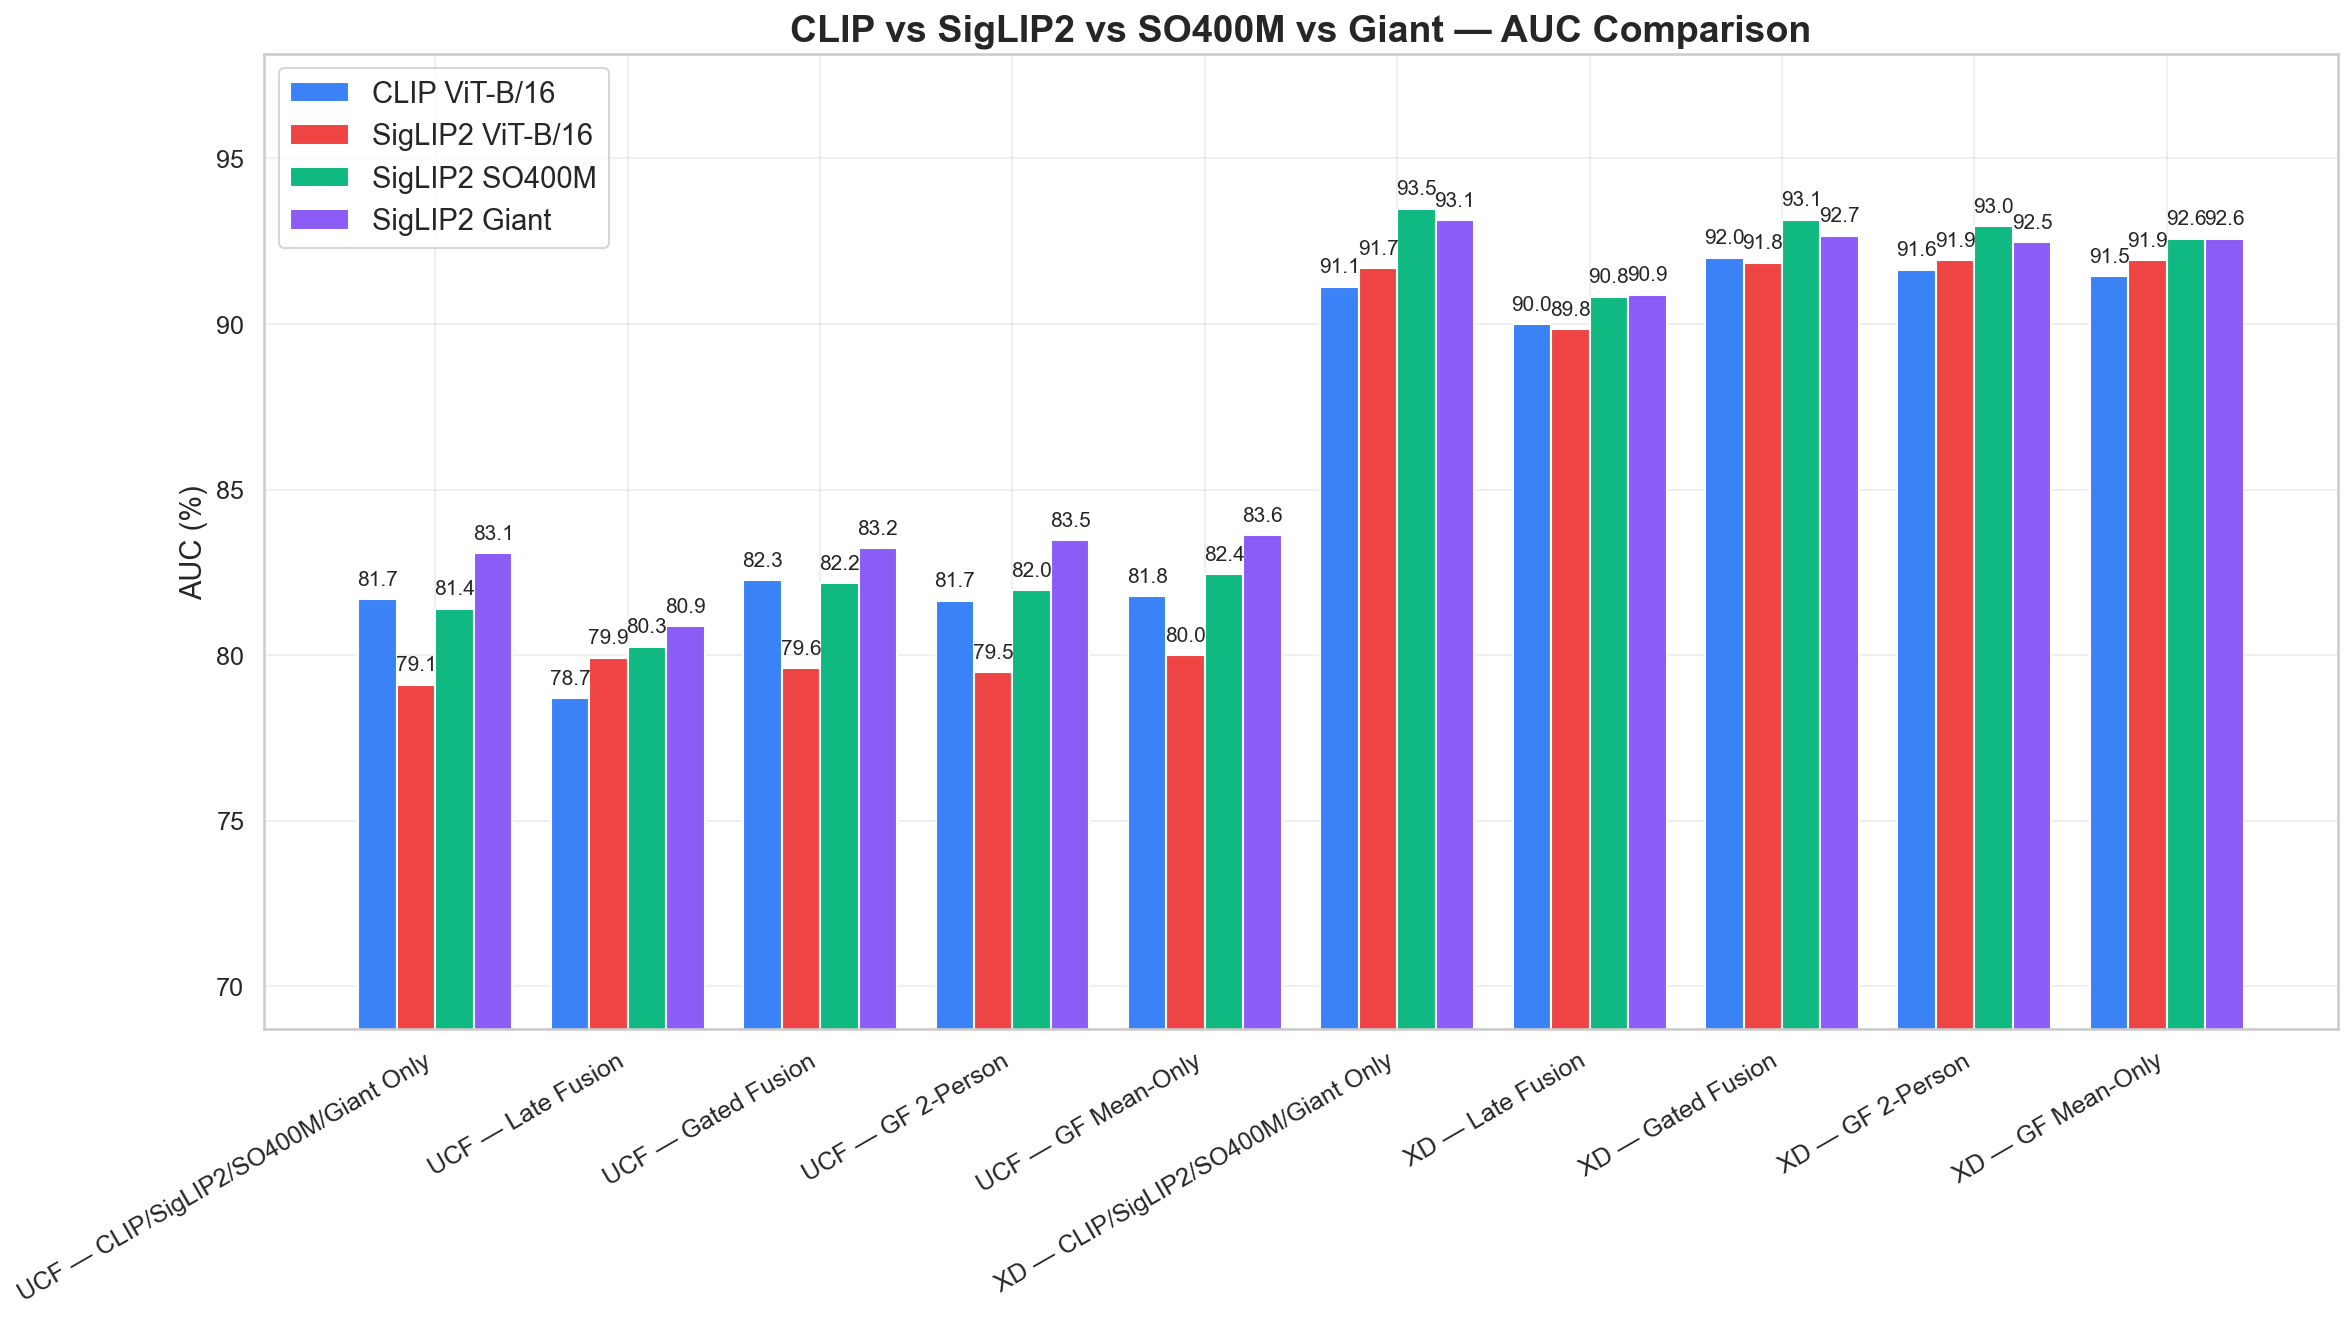
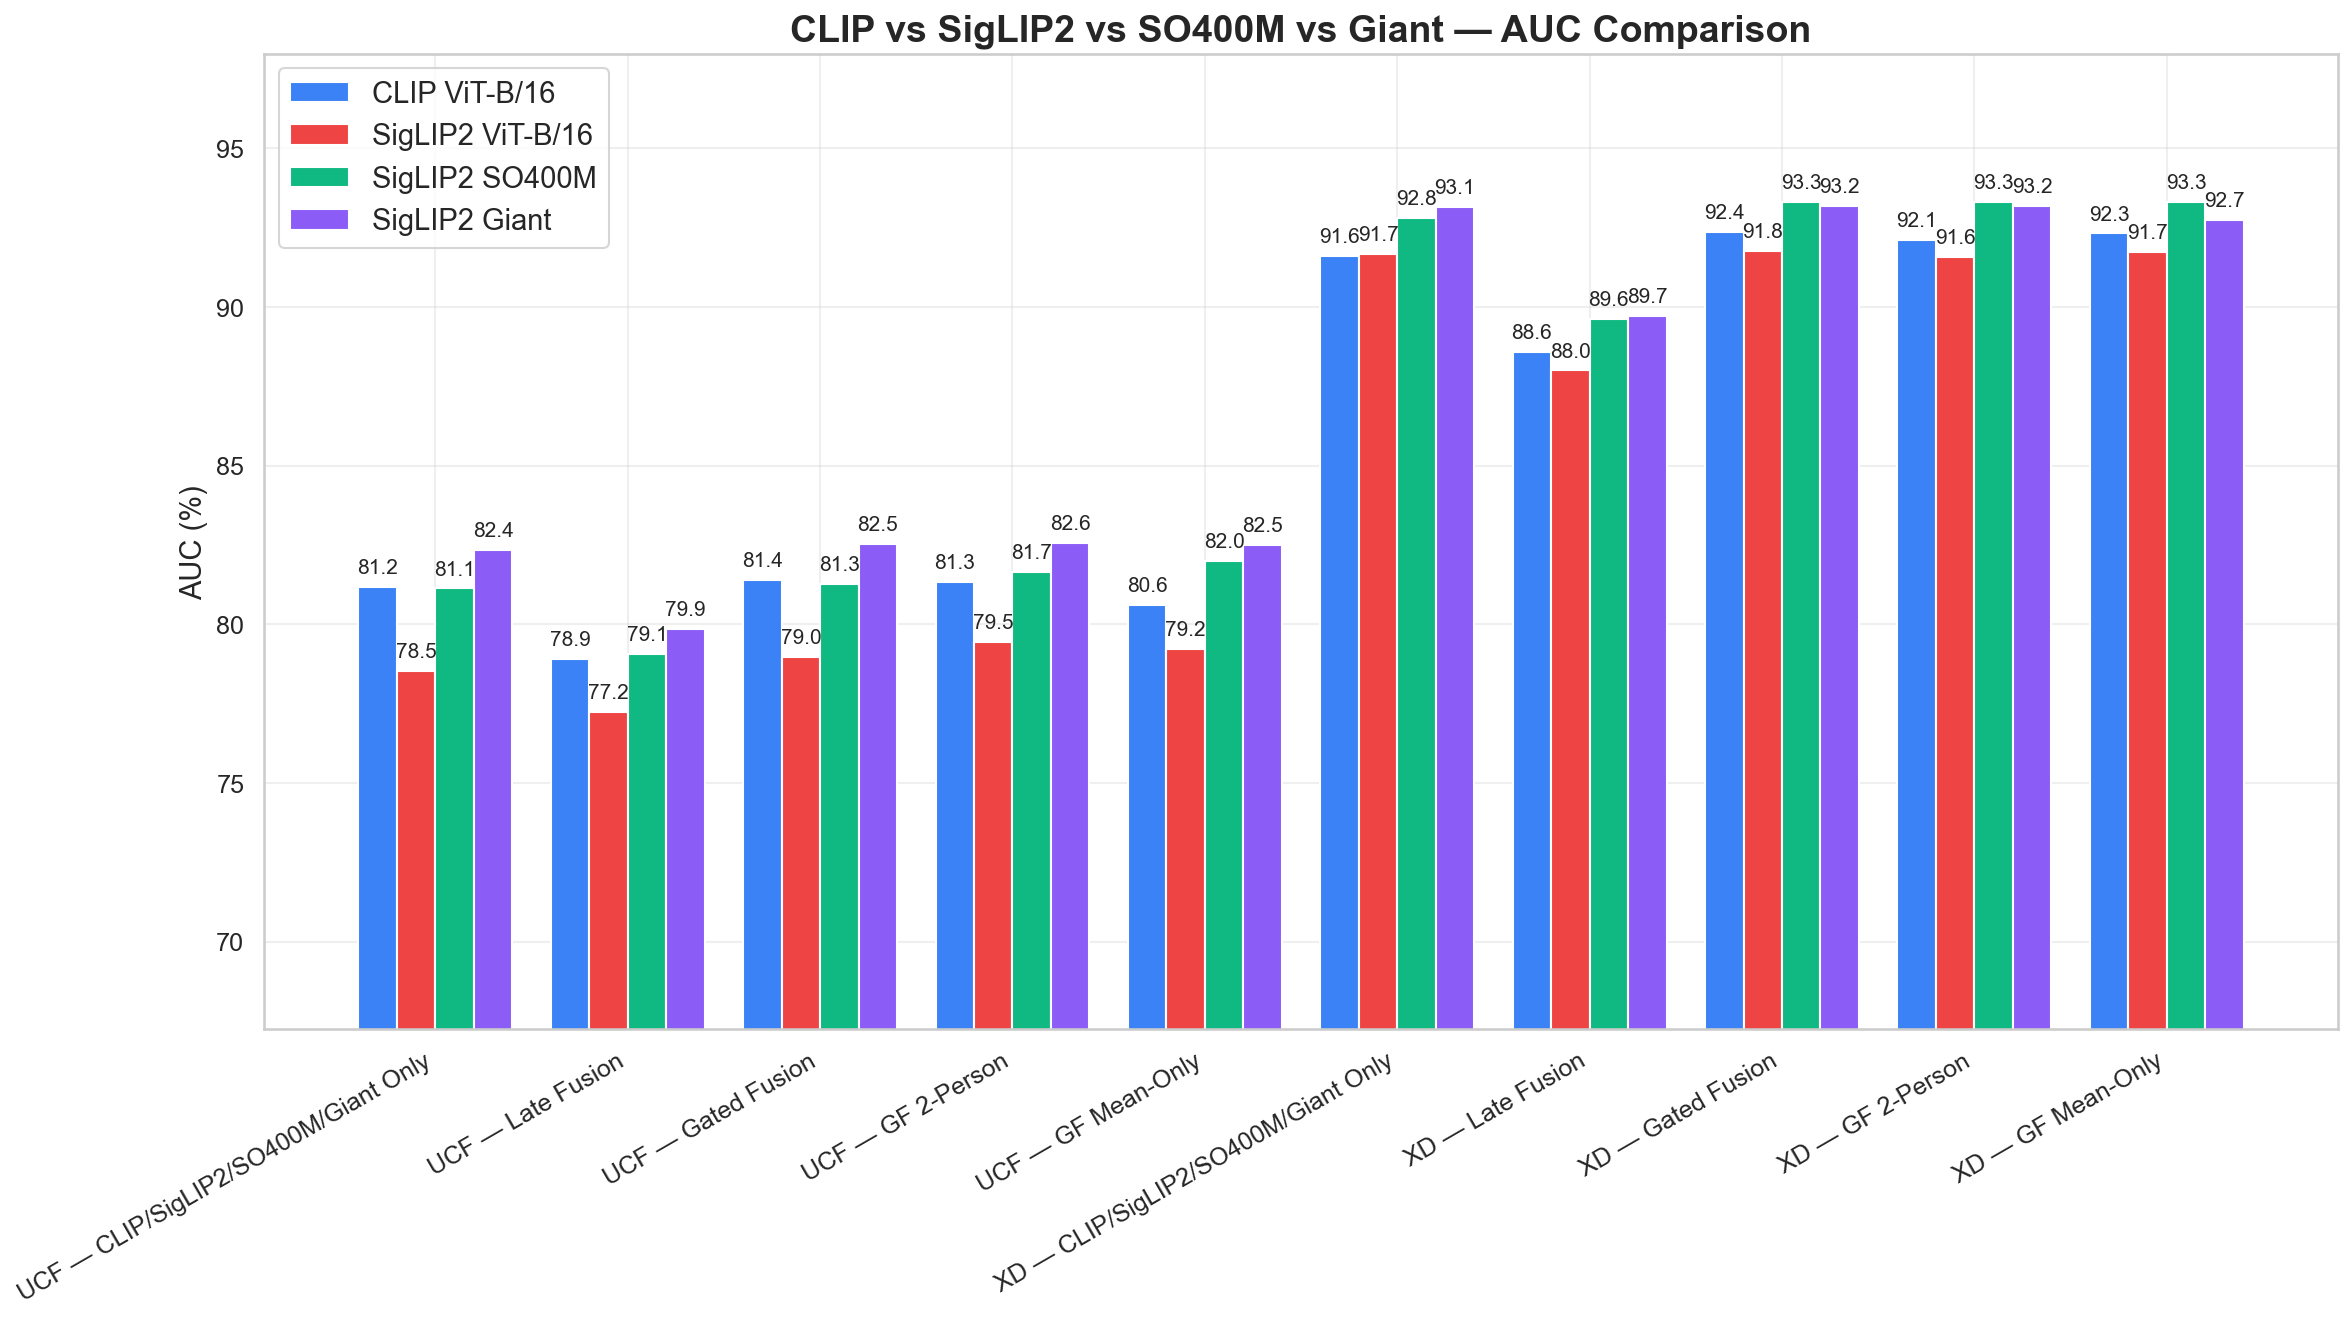
fix(quick-260622-uuu): regenerate backbone-comparison figure from 3-seed data (C7-2/T5-1)
Review finding C7-2 (HIGH, dup T5-1): fig_backbone_comparison.pdf showed single-seed
(s42) bars while its caption claimed "three-seed means", disagreeing with the now-3-seed
Tables 1/2 (e.g. XD gated SO400M 79.7 vs 78.7; XD gated Giant 73.6 vs 76.8). Root cause:
generate_phase10_charts.py:build_comparison_table read a single _s42 run per cell.

- generate_phase10_charts.py: add _seed_mean() and average every comparison-table cell
  over the {_s42,_s123,_s2024} family, so backbone_comparison_4way.csv holds 3-seed means.
- Regenerated backbone_comparison_4way.csv + fig_backbone_comparison.pdf (+ the two tracked
  phase10 PNGs). All 24 figure bars now equal their Table 1/2 cells to 0.1pp; old single-seed
  values (79.7/73.6/81.7) gone. Other paper figures untouched (targeted regen).
- main.tex caption: "six fusion variants" -> "three"; replaced the false
  "Visual Only and Gated Fusion ... three-seed means; Late Fusion is single-seed" with
  "All bars are three-seed means over seeds {42,123,2024}, matching Tables 1-2
  (Gated Fusion shown with +/-std)".

Paper rebuilds clean (11 pp). Headlines UCF 82.5% / XD 78.7% unchanged.

Claude-Session: https://claude.ai/code/session_01Wyhdaxpsp3FCT5YDvwGSZN

diff --git a/scripts/generate_phase10_charts.py b/scripts/generate_phase10_charts.py
@@ -89,30 +89,50 @@ def load_results() -> pd.DataFrame:
     return pd.read_csv(csv_path)
 
 
+def _seed_mean(idx, s42_name, metric):
+    """Mean of ``metric`` over the 3-seed family ({_s42,_s123,_s2024}) for a run
+    given by its ``_s42`` member; skips absent seed siblings and falls back to the
+    single run if none are seed-suffixed.
+
+    Fixes review finding C7-2: COMPARISON_MAP hardcodes ``_s42`` run names, so the
+    generated backbone_comparison_4way.csv (and thus fig_backbone_comparison.pdf)
+    was single-seed and disagreed with the 3-seed Tables 1-2. Bar values must be
+    the 3-seed means that back those tables.
+    """
+    if not isinstance(s42_name, str) or not s42_name.endswith("_s42"):
+        return idx.loc[s42_name, metric] if s42_name in idx.index else np.nan
+    base = s42_name[:-4]
+    vals = [idx.loc[n, metric]
+            for n in (f"{base}_s42", f"{base}_s123", f"{base}_s2024")
+            if n in idx.index]
+    vals = [v for v in vals if pd.notna(v)]
+    return float(np.mean(vals)) if vals else np.nan
+
+
 def build_comparison_table(df: pd.DataFrame) -> pd.DataFrame:
     idx = df.set_index("run_name")
     rows = []
     for (dataset, label), (clip_name, sig_name, so400m_name, giant_name) in COMPARISON_MAP.items():
         row = {"Dataset": dataset.upper(), "Variant": label}
         if clip_name in idx.index:
-            row["CLIP_AUC"] = idx.loc[clip_name, "auc"]
-            row["CLIP_AP"] = idx.loc[clip_name, "ap"]
+            row["CLIP_AUC"] = _seed_mean(idx, clip_name, "auc")
+            row["CLIP_AP"] = _seed_mean(idx, clip_name, "ap")
         if sig_name and sig_name in idx.index:
-            row["SigLIP2_AUC"] = idx.loc[sig_name, "auc"]
-            row["SigLIP2_AP"] = idx.loc[sig_name, "ap"]
+            row["SigLIP2_AUC"] = _seed_mean(idx, sig_name, "auc")
+            row["SigLIP2_AP"] = _seed_mean(idx, sig_name, "ap")
             row["Delta_CLIP_SigLIP2_AUC"] = row["SigLIP2_AUC"] - row["CLIP_AUC"]
             row["Delta_CLIP_SigLIP2_AP"] = row["SigLIP2_AP"] - row["CLIP_AP"]
         if so400m_name and so400m_name in idx.index:
-            row["SO400M_AUC"] = idx.loc[so400m_name, "auc"]
-            row["SO400M_AP"] = idx.loc[so400m_name, "ap"]
+            row["SO400M_AUC"] = _seed_mean(idx, so400m_name, "auc")
+            row["SO400M_AP"] = _seed_mean(idx, so400m_name, "ap")
             row["Delta_CLIP_SO400M_AUC"] = row["SO400M_AUC"] - row["CLIP_AUC"]
             row["Delta_CLIP_SO400M_AP"] = row["SO400M_AP"] - row["CLIP_AP"]
             if sig_name and sig_name in idx.index:
                 row["Delta_SigLIP2_SO400M_AUC"] = row["SO400M_AUC"] - row["SigLIP2_AUC"]
                 row["Delta_SigLIP2_SO400M_AP"] = row["SO400M_AP"] - row["SigLIP2_AP"]
         if giant_name and giant_name in idx.index:
-            row["Giant_AUC"] = idx.loc[giant_name, "auc"]
-            row["Giant_AP"] = idx.loc[giant_name, "ap"]
+            row["Giant_AUC"] = _seed_mean(idx, giant_name, "auc")
+            row["Giant_AP"] = _seed_mean(idx, giant_name, "ap")
             row["Delta_CLIP_Giant_AUC"] = row["Giant_AUC"] - row["CLIP_AUC"]
             row["Delta_CLIP_Giant_AP"] = row["Giant_AP"] - row["CLIP_AP"]
             if sig_name and sig_name in idx.index:

diff --git a/paper/main.tex b/paper/main.tex
@@ -280,7 +280,7 @@ Figure~\ref{fig:temporal-scores} illustrates the temporal behavior of our gated 
 \begin{figure*}[t]
   \centering
   \includegraphics[width=\textwidth]{figures/fig_backbone_comparison.pdf}
-  \caption{Performance comparison across four visual backbones and six fusion variants. Left: UCF-Crime AUC (\%). Right: XD-Violence AP (\%). SigLIP2 Giant leads on UCF-Crime; on XD-Violence the four visual-only backbones fall within seed variance, while SigLIP2 SO400M is the clear leader under gated fusion---a dataset-specific preference that emerges through fusion. Visual Only and Gated Fusion bars are three-seed means (Gated shown with $\pm$std); Late Fusion is single-seed.}
+  \caption{Performance comparison across four visual backbones and three fusion variants. Left: UCF-Crime AUC (\%). Right: XD-Violence AP (\%). SigLIP2 Giant leads on UCF-Crime; on XD-Violence the four visual-only backbones fall within seed variance, while SigLIP2 SO400M is the clear leader under gated fusion---a dataset-specific preference that emerges through fusion. All bars are three-seed means over seeds $\{42,123,2024\}$, matching Tables~\ref{tab:ucf-ablation}--\ref{tab:xd-ablation} (Gated Fusion shown with $\pm$std).}
   \label{fig:backbone-comparison}
 \end{figure*}
 
